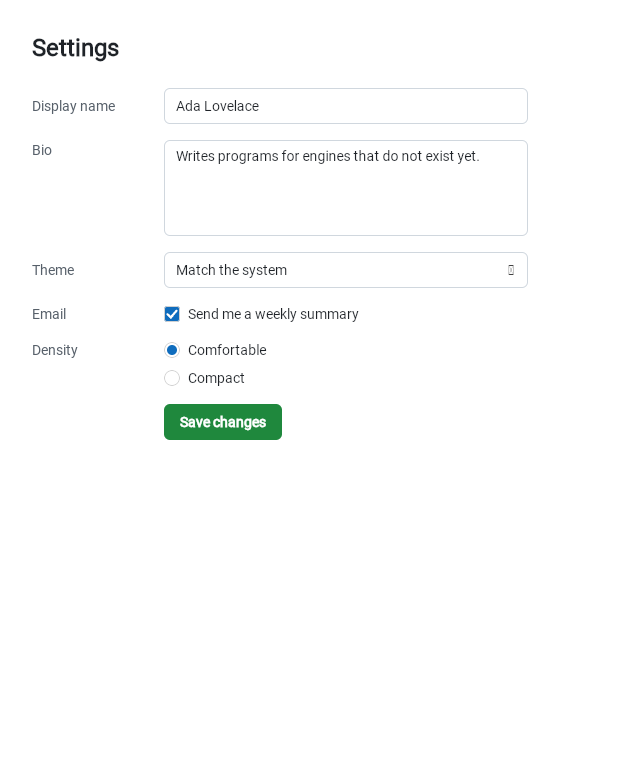
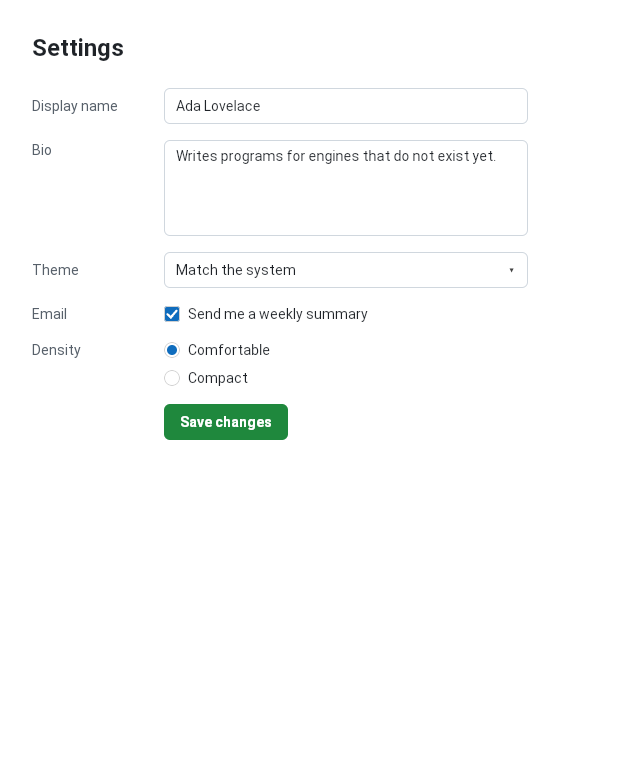
Docs: Refresh web/settings.png on compose-rust v0.0.11 (#276)
Re-captured experiments/html-samples/web/settings.png against compose-rust v0.0.11 (which bundles NotoSansSymbols2-Subset.ttf in webFallbackFaces for U+25BE) so the <select> dropdown arrow renders as a downward triangle instead of a missing-glyph box, and removed the #276 note from experiments/html-samples/README.md.

diff --git a/experiments/html-samples/README.md b/experiments/html-samples/README.md
@@ -56,5 +56,4 @@ The differences between the two are tracked from issue #179.
   `--initial-memory=8388608`, `--no-stack-first`).
 
 What differs between targets is tracked from #179: on Windows weight 600 at 28px
-(compose-rust#551), and on Web `web/settings.png` draws the `<select>` dropdown arrow as a
-missing-glyph box (#276).
+(compose-rust#551).
